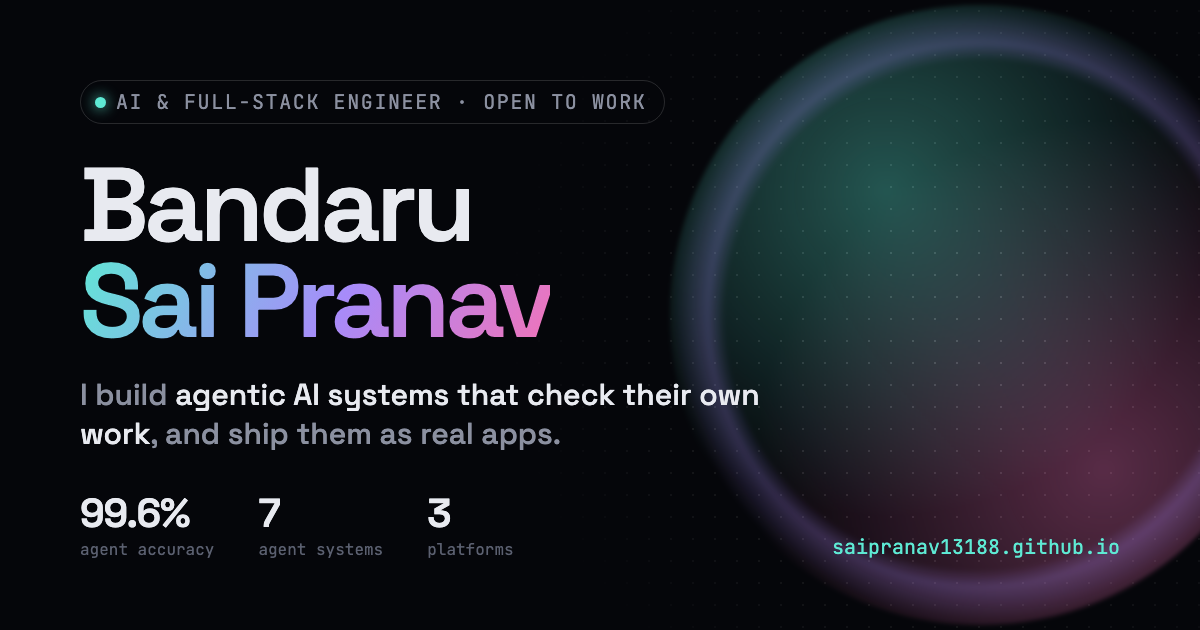
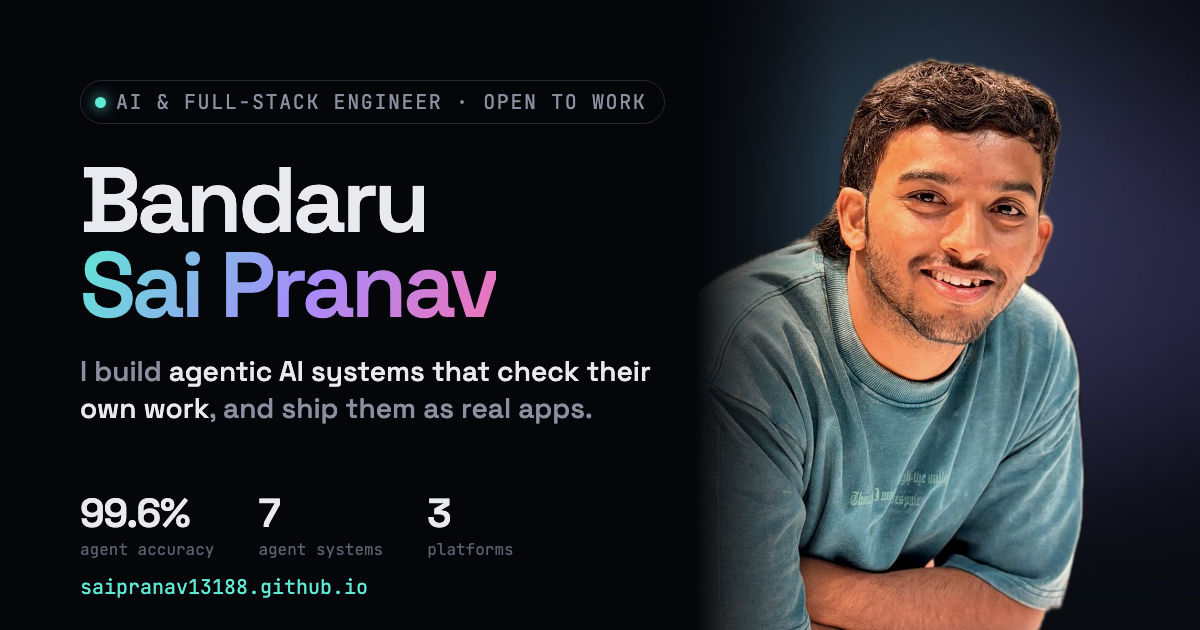
Add professional portrait to About and share preview

diff --git a/index.html b/index.html
@@ -30,7 +30,7 @@
   "jobTitle": "AI & Full-Stack Engineer",
   "alumniOf": { "@type": "CollegeOrUniversity", "name": "Bennett University" },
   "url": "https://saipranav13188.github.io/",
-  "image": "https://avatars.githubusercontent.com/u/142961143?v=4",
+  "image": "https://saipranav13188.github.io/portrait.jpg",
   "email": "mailto:saipranav1388@gmail.com",
   "sameAs": [
     "https://github.com/SaiPranav13188",
@@ -395,6 +395,18 @@ footer { border-top: 1px solid var(--line); padding: 32px 0; font-size: .85rem; 
 footer .container { display: flex; flex-wrap: wrap; gap: 16px; justify-content: space-between; }
 footer a:hover { color: var(--text); }
 
+/* ---------- about portrait ---------- */
+.about-grid { display: grid; gap: 40px; align-items: center; }
+@media (min-width: 960px) { .about-grid { grid-template-columns: minmax(280px, 380px) 1fr; gap: 72px; } }
+.portrait { position: relative; margin: 0; max-width: 380px; border-radius: 26px; overflow: hidden; border: 1px solid var(--line-2); box-shadow: 0 50px 100px -40px rgba(0,0,0,.9), 0 0 0 6px rgba(255,255,255,.02); }
+.portrait::before { content: ""; position: absolute; inset: -1px; border-radius: inherit; padding: 1px; background: linear-gradient(160deg, rgba(94,234,212,.5), transparent 40%, transparent 60%, rgba(167,139,250,.5)); -webkit-mask: linear-gradient(#000 0 0) content-box, linear-gradient(#000 0 0); -webkit-mask-composite: xor; mask-composite: exclude; z-index: 2; pointer-events: none; }
+.portrait img { width: 100%; height: auto; aspect-ratio: 4 / 5; object-fit: cover; }
+.portrait figcaption { position: absolute; left: 12px; right: 12px; bottom: 12px; display: flex; align-items: center; justify-content: space-between; gap: 10px; padding: 12px 14px; border-radius: 16px; background: rgba(5,6,10,.62); border: 1px solid var(--line); backdrop-filter: blur(12px); -webkit-backdrop-filter: blur(12px); font-size: .76rem; color: var(--muted); }
+.portrait figcaption b { display: block; font-family: var(--display); font-size: .95rem; font-weight: 600; color: var(--text); }
+.pc-tag { display: inline-flex; align-items: center; gap: 6px; font-family: var(--mono); font-size: .66rem; letter-spacing: .06em; text-transform: uppercase; color: var(--teal); white-space: nowrap; }
+.pc-tag i { width: 7px; height: 7px; border-radius: 50%; background: var(--teal); box-shadow: 0 0 8px var(--teal); }
+@media (max-width: 959px) { .portrait { max-width: 340px; } }
+
 /* ---------- background ---------- */
 .bg-grid { display: grid; gap: 20px; }
 @media (min-width: 960px) { .bg-grid { grid-template-columns: 1.15fr 1fr; gap: 24px; } }
@@ -668,7 +680,19 @@ try { if (sessionStorage.getItem('seenIntro')) document.body.classList.add('seen
   <section id="about" class="sec-pad">
     <div class="container">
       <div class="sec-label">About</div>
-      <p class="statement" id="statement">I like the hard part of AI: making it <em class="grad-text">reliable</em>. I design multi-agent systems where the model plans and calls tools, but the safety rules live in code it can't talk its way around. Then I ship them as real products people can install, on macOS, Android and the web.</p>
+      <div class="about-grid">
+        <figure class="portrait rv">
+          <picture>
+            <source srcset="portrait.webp" type="image/webp">
+            <img src="portrait.jpg" width="960" height="1200" loading="lazy" alt="Portrait of Bandaru Sai Pranav">
+          </picture>
+          <figcaption>
+            <span><b>Bandaru Sai Pranav</b>AI &amp; Full-Stack Engineer</span>
+            <span class="pc-tag"><i></i>Open to work</span>
+          </figcaption>
+        </figure>
+        <p class="statement" id="statement">I like the hard part of AI: making it <em class="grad-text">reliable</em>. I design multi-agent systems where the model plans and calls tools, but the safety rules live in code it can't talk its way around. Then I ship them as real products people can install, on macOS, Android and the web.</p>
+      </div>
       <div class="stats">
         <div class="stat rv"><b><span class="count" data-to="19">19</span></b><span>projects shipped on GitHub</span></div>
         <div class="stat rv"><b><span class="count" data-to="7">7</span></b><span>agent-based systems built</span></div>
